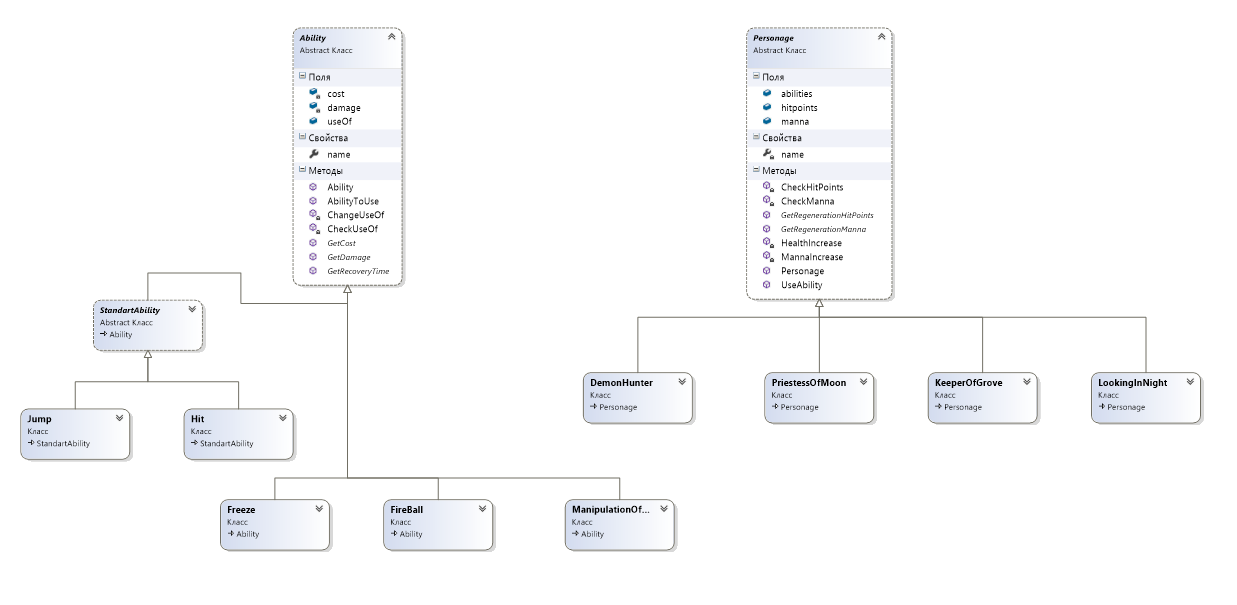
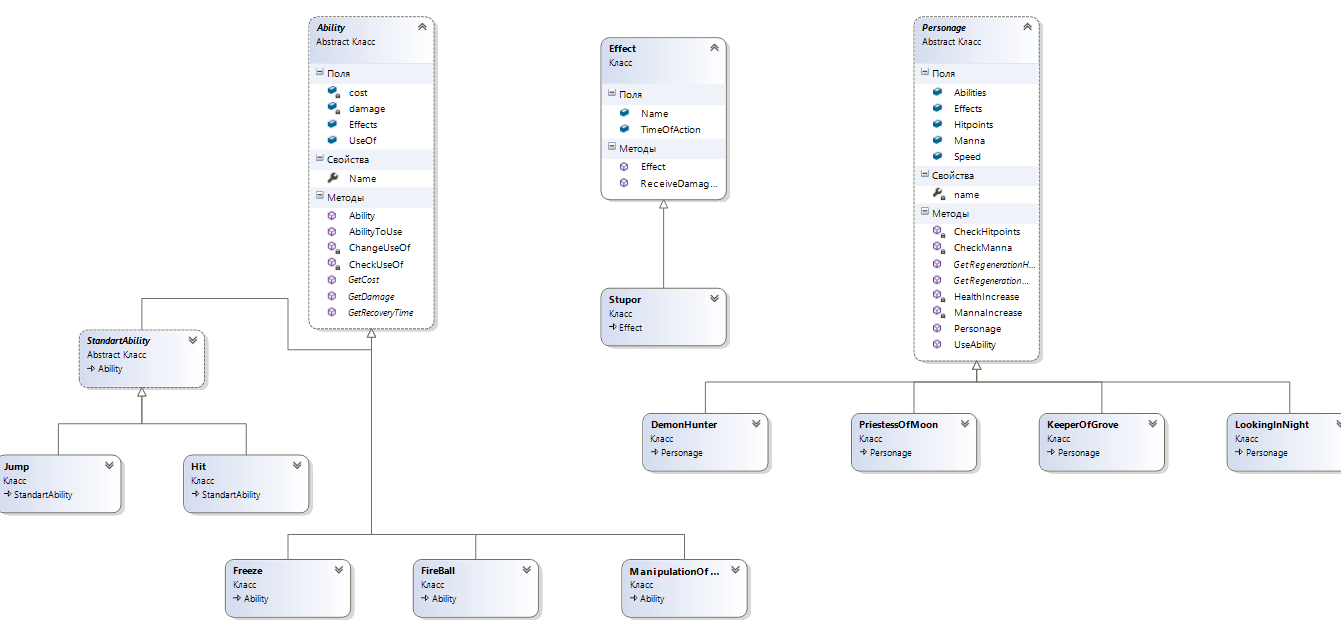
14.10

diff --git a/ThirdWeek/ThirdWeek/Personage.cs b/ThirdWeek/ThirdWeek/Personage.cs
@@ -10,23 +10,26 @@ namespace ThirdWeek
     public abstract class Personage
     {
         private string name { get; set; }
-        public  int hitpoints;
-        public int manna;
-        public Dictionary<string, Ability> abilities = new Dictionary<string, Ability>(); 
+        public  int Hitpoints;
+        public int Manna;
+        public int Speed;
+        public Dictionary<string, Ability> Abilities = new Dictionary<string, Ability>();
+        public List<Effect> Effects = new List<Effect>();
 
-        public abstract int GetRegenerationHitPoints();
+        public abstract int GetRegenerationHitpoints();
         public abstract int GetRegenerationManna();
 
         public Personage(string name) {
             this.name = name;
 
-            hitpoints = 100;
-            manna = 100;
+            Hitpoints = 100;
+            Manna = 100;
+            Speed = 10;
 
-            abilities.Add("Jump",new Jump());
-            abilities.Add("Hit",new Hit());
+            Abilities.Add("Jump",new Jump());
+            Abilities.Add("Hit",new Hit());
 
-            CheckHitPoints(null);
+            CheckHitpoints(null);
             CheckManna(null);
         }
 
@@ -34,9 +37,9 @@ namespace ThirdWeek
 
         public void UseAbility(String name, Personage opponent)
         {
-            if (this.manna >= abilities[name].GetCost() && abilities[name].useOf)
+            if (this.Manna >= Abilities[name].GetCost() && Abilities[name].useOf)
             {
-                this.manna -= abilities[name].AbilityToUse(opponent);
+                this.Manna -= Abilities[name].AbilityToUse(opponent);
             }
 
         }
@@ -46,7 +49,7 @@ namespace ThirdWeek
             TimerCallback tm = new TimerCallback(CheckManna);
             Timer timer = new Timer(tm, null, 0, 30000);
 
-            if (hitpoints < 100)
+            if (Hitpoints < 100)
             {
                 TimerCallback tc = new TimerCallback(MannaIncrease);
                 Timer timer1 = new Timer(tc, null, this.GetRegenerationManna(), 0);
@@ -54,33 +57,33 @@ namespace ThirdWeek
         }
         private void MannaIncrease(object obj)
         {
-            this.manna++;
+            this.Manna++;
             CheckManna(null);
         }
 
-        private void CheckHitPoints(object obj)
+        private void CheckHitpoints(object obj)
         {
-            TimerCallback tm = new TimerCallback(CheckHitPoints);
+            TimerCallback tm = new TimerCallback(CheckHitpoints);
             Timer timer = new Timer(tm, null, 0, 30000);
 
-            if (hitpoints <= 0)
+            if (Hitpoints <= 0)
             {
                 Console.WriteLine("Personage " + this.name + "is died");
                 timer.Dispose();
 
             }
             else
-                if (hitpoints < 100)
+                if (Hitpoints < 100)
             {
                 TimerCallback tc = new TimerCallback(HealthIncrease);
-                Timer timer1 = new Timer(tc, null, this.GetRegenerationHitPoints(), 0);
+                Timer timer1 = new Timer(tc, null, this.GetRegenerationHitpoints(), 0);
             }
         }
 
         private void HealthIncrease(object obj)
         {
-            this.hitpoints++;
-            CheckHitPoints(null);
+            this.Hitpoints++;
+            CheckHitpoints(null);
         }
     }
 

diff --git a/ThirdWeek/ThirdWeek/Personages.cs b/ThirdWeek/ThirdWeek/Personages.cs
@@ -10,9 +10,9 @@ namespace ThirdWeek
     {
         public DemonHunter() : base("DemonHunter")
         {
-            abilities.Add("FireBall", new FireBall());
+            Abilities.Add("FireBall", new FireBall());
         }
-        public override int GetRegenerationHitPoints()
+        public override int GetRegenerationHitpoints()
         {
             return 15;
         }
@@ -26,9 +26,9 @@ namespace ThirdWeek
     {
         public KeeperOfGrove() : base("KeeperOfGrove")
         {
-            abilities.Add("Freeze", new Freeze());
+            Abilities.Add("Freeze", new Freeze());
         }
-        public override int GetRegenerationHitPoints()
+        public override int GetRegenerationHitpoints()
         {
             return 11;
         }
@@ -41,11 +41,11 @@ namespace ThirdWeek
     {
         public PriestessOfMoon() : base("PriestessOfMoon")
         {
-            abilities.Add("FireBall", new FireBall());
-            abilities.Add("ManipulationOfConsciousness", new ManipulationOfConsciousness());
+            Abilities.Add("FireBall", new FireBall());
+            Abilities.Add("ManipulationOfConsciousness", new ManipulationOfConsciousness());
 
         }
-        public override int GetRegenerationHitPoints()
+        public override int GetRegenerationHitpoints()
         {
             return 5;
         }
@@ -58,9 +58,9 @@ namespace ThirdWeek
     {
         public LookingInNight() : base("LookingInNight")
         {
-            abilities.Add("ManipulationOfConsciousness", new ManipulationOfConsciousness());
+            Abilities.Add("ManipulationOfConsciousness", new ManipulationOfConsciousness());
         }
-        public override int GetRegenerationHitPoints()
+        public override int GetRegenerationHitpoints()
         {
             return 7;
         }

diff --git a/ThirdWeek/ThirdWeek/Ability.cs b/ThirdWeek/ThirdWeek/Ability.cs
@@ -9,11 +9,13 @@ namespace ThirdWeek
 {
     public abstract class Ability
     {
-        public string name { get; protected set; }
+        public string Name { get; protected set; }
         int cost;
         int damage;
 
-        public bool useOf;
+        public bool UseOf;
+
+        public Effect Effects;
 
         public abstract int GetDamage();
         public abstract int GetCost();
@@ -21,17 +23,17 @@ namespace ThirdWeek
         public abstract int GetRecoveryTime();
         public int AbilityToUse(Personage opponent)
         {
-            opponent.hitpoints -= this.GetDamage();
-            useOf = false;
+            opponent.Hitpoints -= this.GetDamage();
+            UseOf = false;
 
             return GetCost();
         }
         public Ability(string name)
         {
-            this.name = name;
+            this.Name = name;
             cost = 5;
             
-            useOf = true;
+            UseOf = true;
             CheckUseOf(null);
         }
 
@@ -40,7 +42,7 @@ namespace ThirdWeek
             TimerCallback tm = new TimerCallback(CheckUseOf);
             Timer timer = new Timer(tm, null, 0, 30000);
 
-            if (!useOf)
+            if (!UseOf)
             {
                 TimerCallback tc = new TimerCallback(ChangeUseOf);
                 Timer timer1 = new Timer(tc, null, this.GetRecoveryTime(), 0);
@@ -48,7 +50,7 @@ namespace ThirdWeek
         }
         private void ChangeUseOf(object obj)
         {
-            this.useOf =true;
+            this.UseOf =true;
             CheckUseOf(null);
         }
 

diff --git a/ThirdWeek/TestGame/UnitTest1.cs b/ThirdWeek/TestGame/UnitTest1.cs
@@ -17,7 +17,7 @@ namespace TestGame
             keeper.UseAbility("Freeze", demon);
             keeper.UseAbility("Freeze", demon);
 
-            Assert.AreEqual(demon.hitpoints, 100 - keeper.abilities["Freeze"].GetDamage());
+            Assert.AreEqual(demon.Hitpoints, 100 - keeper.Abilities["Freeze"].GetDamage());
             
 
         }
@@ -28,7 +28,7 @@ namespace TestGame
             keeper.UseAbility("Hit", demon);
             keeper.UseAbility("Hit", demon);
 
-            Assert.AreEqual(demon.hitpoints, 100 - 2*keeper.abilities["Hit"].GetDamage());
+            Assert.AreEqual(demon.Hitpoints, 100 - 2*keeper.Abilities["Hit"].GetDamage());
 
         }
 
@@ -38,7 +38,7 @@ namespace TestGame
             keeper.UseAbility("Hit", demon);
             keeper.UseAbility("Freeze", demon);
 
-            Assert.AreEqual(demon.hitpoints, 100 -keeper.abilities["Hit"].GetDamage()- keeper.abilities["Freeze"].GetDamage());
+            Assert.AreEqual(demon.Hitpoints, 100 -keeper.Abilities["Hit"].GetDamage()- keeper.Abilities["Freeze"].GetDamage());
 
         }
 

diff --git a/ThirdWeek/ThirdWeek/Effect.cs b/ThirdWeek/ThirdWeek/Effect.cs
@@ -1,0 +1,35 @@
+using System;
+using System.Collections.Generic;
+using System.Linq;
+using System.Text;
+using System.Threading.Tasks;
+
+namespace ThirdWeek
+{
+    public class Effect
+    {
+        public string Name;
+        public  int TimeOfAction;
+
+        public Effect(string name)
+        {
+            this.Name = name;
+            TimeOfAction = 5;
+        }
+        public virtual void ReceiveDamagevoid(Personage pers) {
+
+        }
+       
+    }
+
+
+    public class Stupor : Effect {
+        public Stupor() : base("Stupor") {
+            this.TimeOfAction = 7;
+        }
+
+        public override void ReceiveDamagevoid(Personage pers) {
+            pers.Speed = 0;
+        }
+    }
+}
